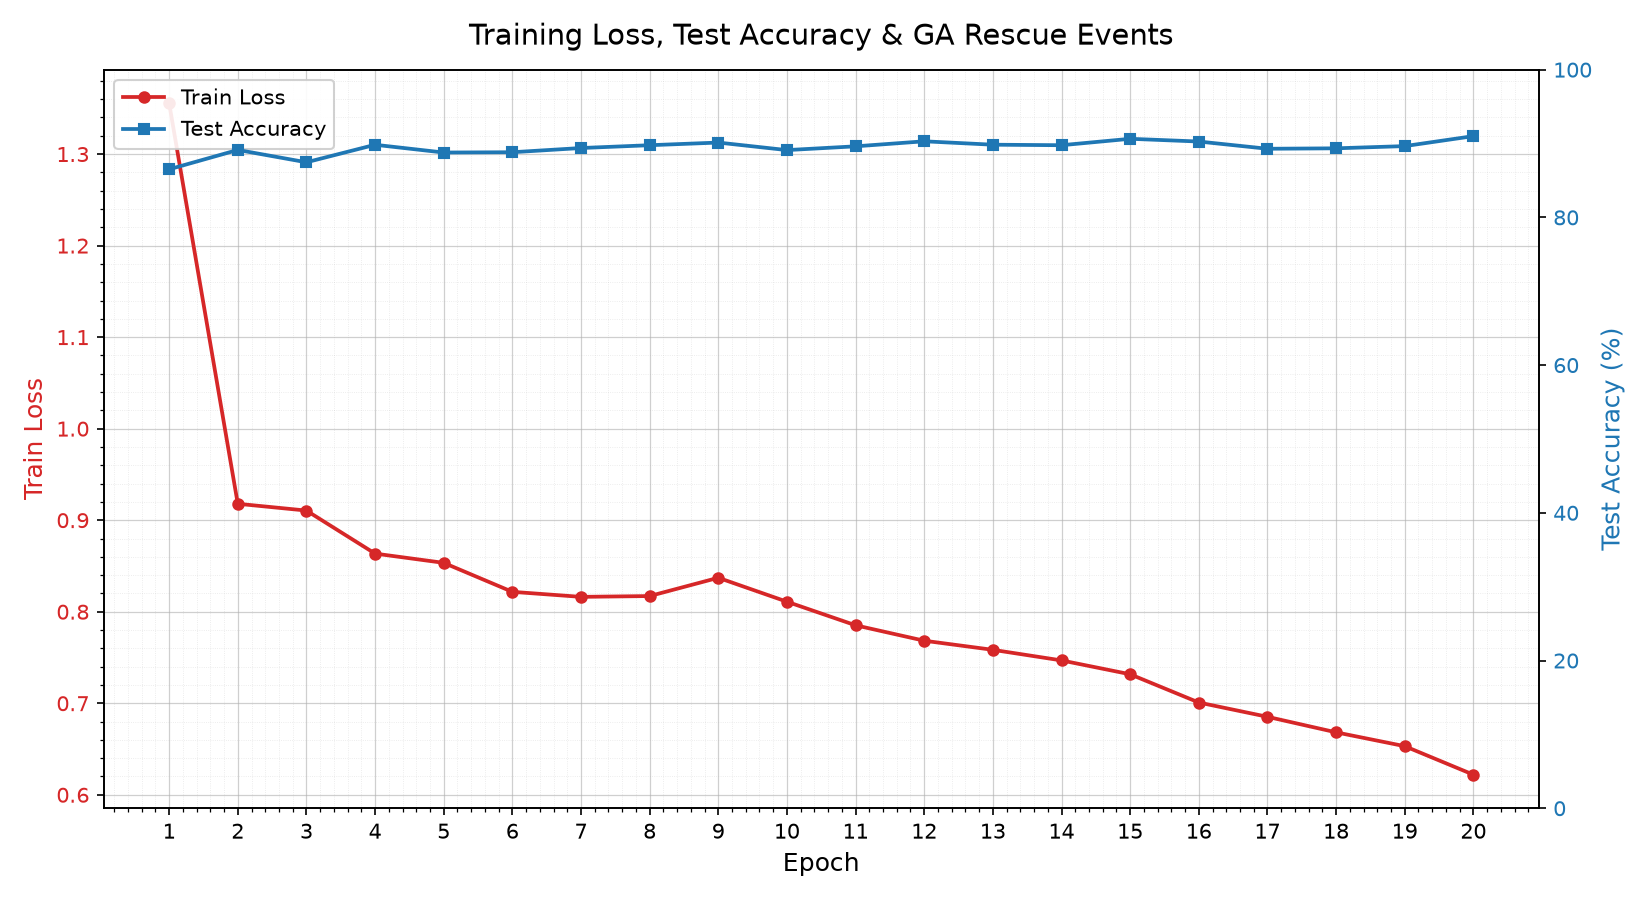
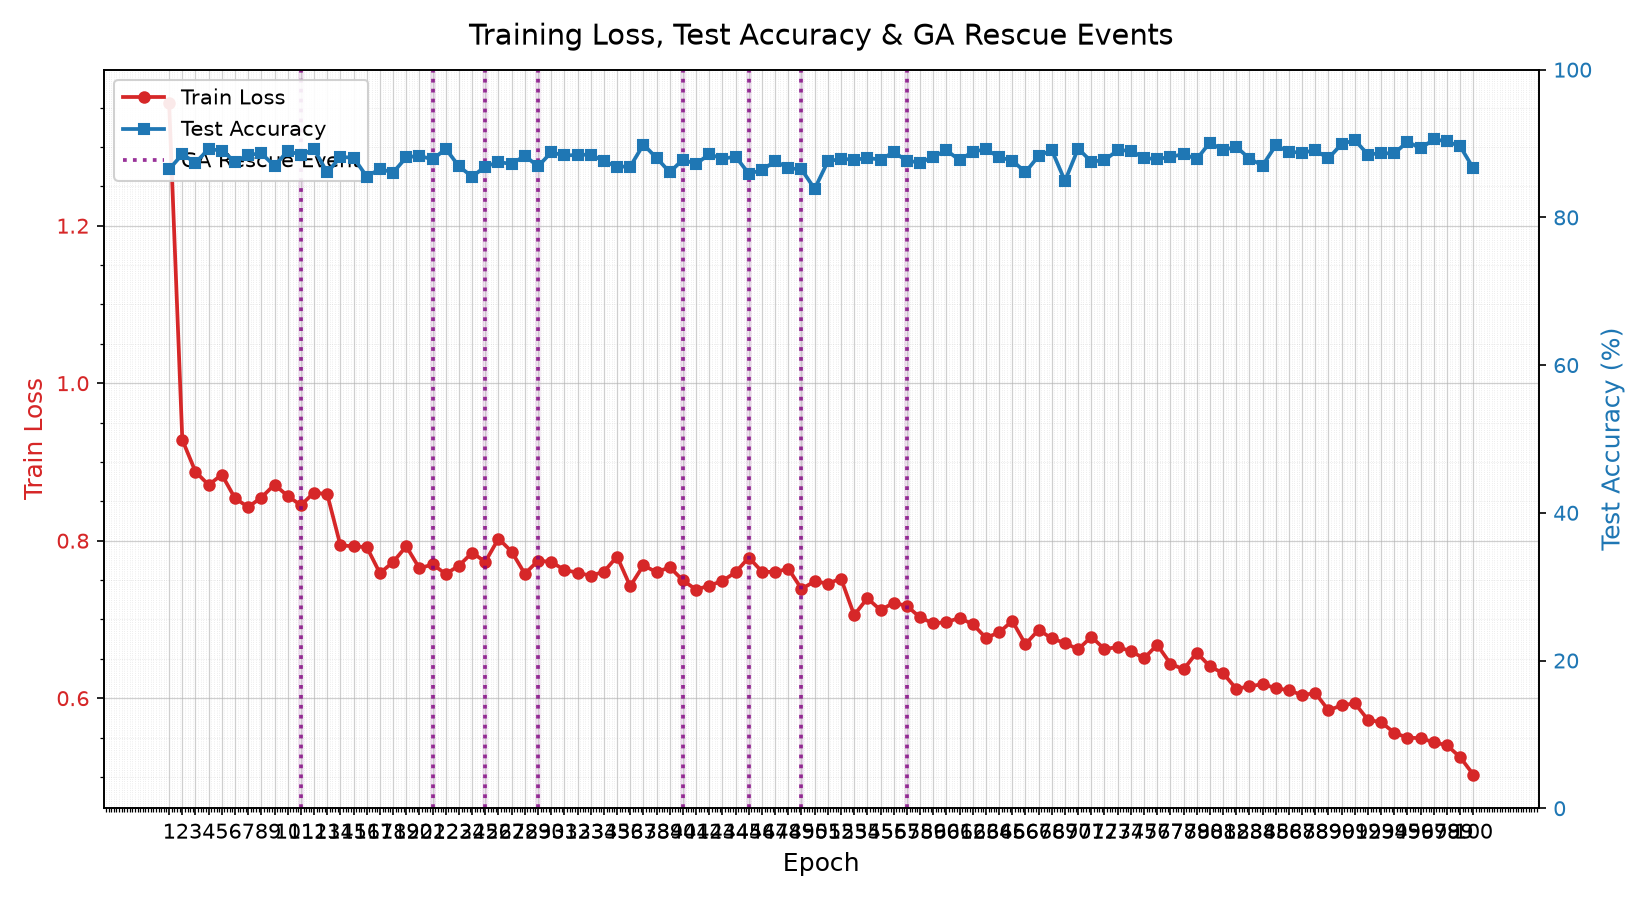
先生のバイナリコネクトをもとにしてみるからブランチ切る

diff --git a/script/binarize_connect_notGA.py b/script/binarize_connect_notGA.py
@@ -79,7 +79,7 @@ def train_plain(model, train_loader, test_loader, device):
     """
     GA摂動なしの、通常のBinaryConnect学習(比較用ベースライン)
     """
-    n_epoch = 20
+    n_epoch = 100
     lr = 0.0005
 
     model.to(device)
@@ -125,6 +125,9 @@ def train_plain(model, train_loader, test_loader, device):
 
 
 def main():
+
+    torch.manual_seed(42)
+
     transform = transforms.Compose([
         transforms.ToTensor(),
         transforms.Normalize((0.1307,), (0.3081,))

diff --git a/script/binarize_connect_ga.py b/script/binarize_connect_ga.py
@@ -132,7 +132,7 @@ def genetic_algorithm(model, x_batch, y_batch):
     return best_loss, improved
 
 def train_with_ga(model, train_loader, test_loader, device):
-    n_epoch = 20
+    n_epoch = 100
     lr = 0.0005
 
     # 何エポック停滞したらGAを使うか
